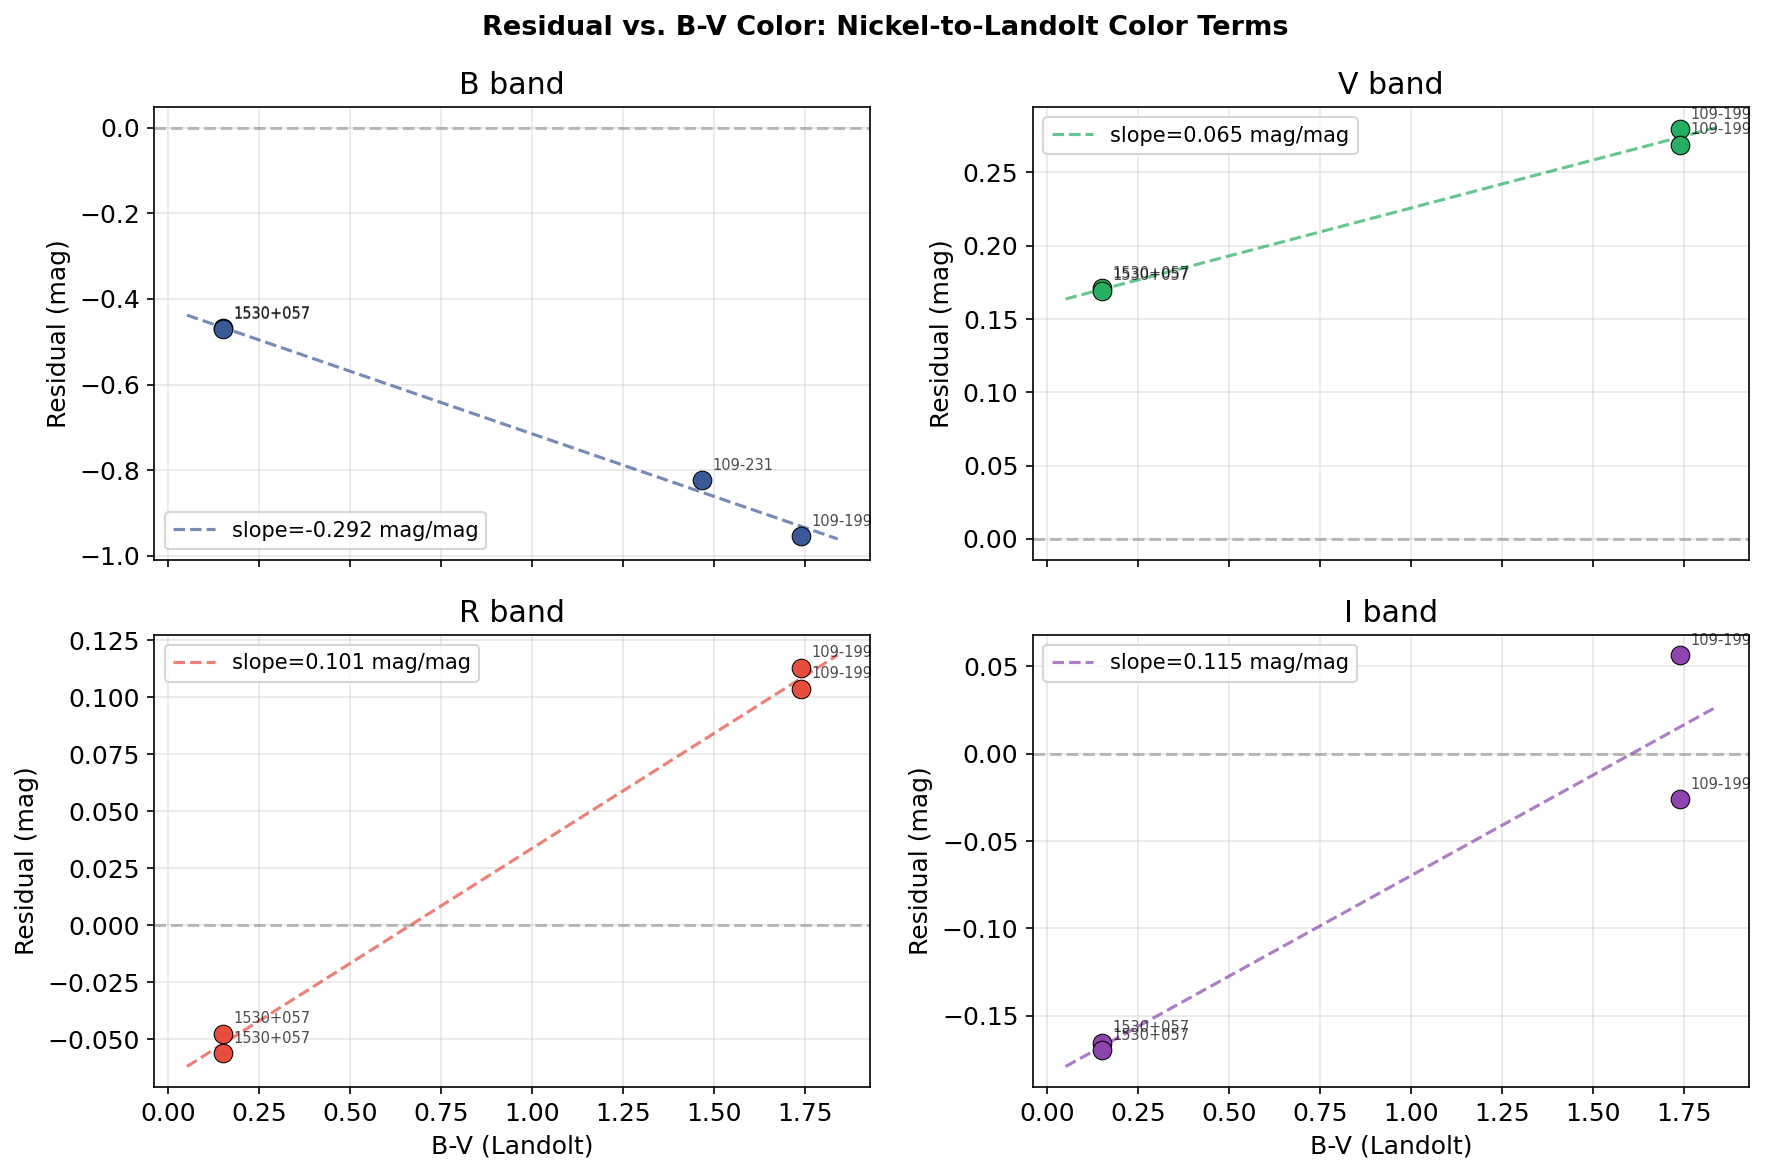
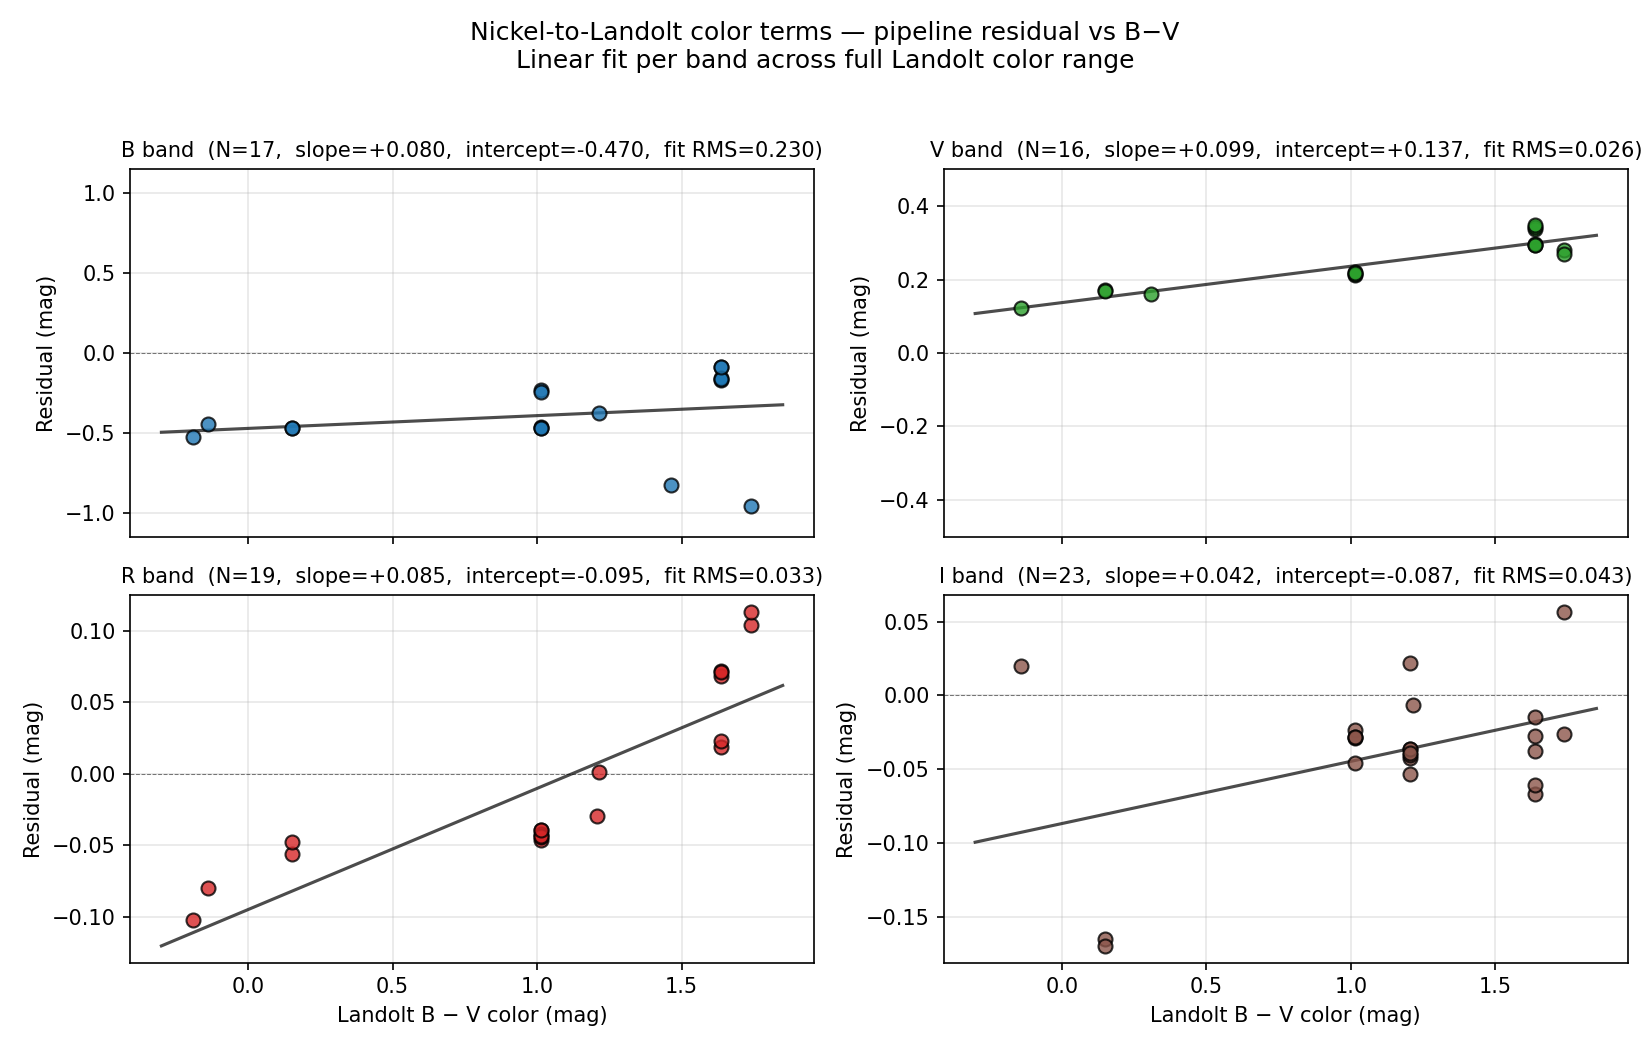
docs(landolt): update assessment + plots for 4-night, full-B-V results
- docs/calibration_metrics_assessment.md: rewrote Landolt section against
  the 76-measurement / 10-star / B-V −0.19 to +1.74 dataset. Includes
  per-band stats (outlier-filtered), color-term linear fits, and a
  section on the MONSTER refcat expansion + the day_obs-span pipeline fix
  that unblocked the missing nights.
- scripts/analysis/plot_landolt.py: standalone script (no notebook) that
  reads analysis/landolt_validation_4nights.csv and emits the residual
  bar chart and the 4-panel color-term plot.
- analysis/landolt_residuals.png, landolt_color_terms.png: regenerated
  from the script. Old versions (from the 16-measurement notebook) are
  replaced.

diff --git a/scripts/analysis/plot_landolt.py b/scripts/analysis/plot_landolt.py
@@ -1,0 +1,177 @@
+#!/usr/bin/env python
+"""Generate Landolt validation plots from analysis/landolt_validation_4nights.csv.
+
+Produces two figures used in the AAS poster + assessment doc:
+
+    analysis/landolt_residuals.png    — per-band residual bar chart
+    analysis/landolt_color_terms.png  — residual vs B-V with linear fits
+
+Drops a single |residual| >= 2 mag outlier (a known V-band source-match
+failure on SA 110-340 visit 90151051).
+"""
+
+from __future__ import annotations
+
+import csv
+from pathlib import Path
+
+import matplotlib.pyplot as plt
+import numpy as np
+
+REPO_ROOT = Path(__file__).resolve().parents[2]
+CSV_PATH = REPO_ROOT / "analysis" / "landolt_validation_4nights.csv"
+OUT_DIR = REPO_ROOT / "analysis"
+
+BANDS = ["b", "v", "r", "i"]
+BAND_COLORS = {"b": "#1f77b4", "v": "#2ca02c", "r": "#d62728", "i": "#8c564b"}
+BAND_LABELS = {"b": "B", "v": "V", "r": "R", "i": "I"}
+OUTLIER_THRESHOLD = 2.0
+
+
+def load_rows():
+    with open(CSV_PATH) as fh:
+        return list(csv.DictReader(fh))
+
+
+def filter_outliers(rows):
+    return [r for r in rows if abs(float(r["residual"])) < OUTLIER_THRESHOLD]
+
+
+def plot_residuals(rows, out_path: Path) -> None:
+    by_band = {b: [] for b in BANDS}
+    for r in rows:
+        by_band[r["band"]].append(float(r["residual"]))
+
+    fig, ax = plt.subplots(figsize=(7, 4.5))
+    xs = np.arange(len(BANDS))
+    means = [np.mean(by_band[b]) if by_band[b] else 0 for b in BANDS]
+    stds = [np.std(by_band[b], ddof=1) if len(by_band[b]) > 1 else 0 for b in BANDS]
+    counts = [len(by_band[b]) for b in BANDS]
+
+    bars = ax.bar(
+        xs,
+        means,
+        yerr=stds,
+        color=[BAND_COLORS[b] for b in BANDS],
+        edgecolor="black",
+        capsize=6,
+        alpha=0.85,
+    )
+
+    ax.axhline(0.0, color="black", linewidth=0.6, linestyle="--", alpha=0.5)
+
+    # Pad y-limits to leave room for annotations above/below the error bars
+    upper = max((m + s for m, s in zip(means, stds)), default=0)
+    lower = min((m - s for m, s in zip(means, stds)), default=0)
+    span = upper - lower if upper != lower else 1.0
+    ax.set_ylim(lower - 0.3 * span, upper + 0.25 * span)
+
+    for x, m, s, n in zip(xs, means, stds, counts):
+        if m >= 0:
+            label_y = m + s + 0.04 * span
+            va = "bottom"
+        else:
+            label_y = m - s - 0.04 * span
+            va = "top"
+        ax.annotate(
+            f"N={n}\n{m:+.3f}±{s:.3f}",
+            (x, label_y),
+            ha="center",
+            va=va,
+            fontsize=9,
+        )
+
+    ax.set_xticks(xs)
+    ax.set_xticklabels([BAND_LABELS[b] for b in BANDS])
+    ax.set_xlabel("Band")
+    ax.set_ylabel("Pipeline − Landolt residual (mag)")
+    ax.set_title(
+        "Landolt photometric validation — per-band residuals\n"
+        f"4 nights × 10 stars (B-V −0.19 to +1.74), 1 V-band outlier excluded"
+    )
+    ax.grid(True, alpha=0.3, axis="y")
+    fig.tight_layout()
+    fig.savefig(out_path, dpi=150)
+    plt.close(fig)
+    print(f"wrote {out_path}")
+
+
+def linfit(xs: np.ndarray, ys: np.ndarray) -> tuple[float, float, float]:
+    """Linear least-squares fit returning (slope, intercept, rms)."""
+    if len(xs) < 2:
+        return float("nan"), float("nan"), float("nan")
+    slope, intercept = np.polyfit(xs, ys, 1)
+    rms = float(np.sqrt(np.mean((ys - (slope * xs + intercept)) ** 2)))
+    return float(slope), float(intercept), rms
+
+
+def plot_color_terms(rows, out_path: Path) -> None:
+    fig, axes = plt.subplots(2, 2, figsize=(11, 7), sharex=True)
+    axes = axes.flatten()
+
+    bv_range = np.linspace(-0.3, 1.85, 100)
+
+    for ax, band in zip(axes, BANDS):
+        xs = np.array(
+            [float(r["color_BV"]) for r in rows if r["band"] == band], float
+        )
+        ys = np.array(
+            [float(r["residual"]) for r in rows if r["band"] == band], float
+        )
+
+        ax.axhline(0.0, color="black", linewidth=0.5, linestyle="--", alpha=0.5)
+        ax.scatter(
+            xs,
+            ys,
+            color=BAND_COLORS[band],
+            edgecolor="black",
+            s=45,
+            alpha=0.8,
+            zorder=3,
+        )
+
+        slope, intercept, fit_rms = linfit(xs, ys)
+        ax.plot(
+            bv_range,
+            slope * bv_range + intercept,
+            color="black",
+            linewidth=1.5,
+            linestyle="-",
+            alpha=0.7,
+        )
+
+        ax.set_title(
+            f"{BAND_LABELS[band]} band  "
+            f"(N={len(xs)},  slope={slope:+.3f},  intercept={intercept:+.3f},  "
+            f"fit RMS={fit_rms:.3f})",
+            fontsize=10,
+        )
+        ax.set_ylabel("Residual (mag)")
+        ax.grid(True, alpha=0.3)
+
+        if band in ("b", "v"):
+            yspan = max(0.5, abs(ys).max() * 1.2)
+            ax.set_ylim(-yspan, yspan)
+
+    axes[2].set_xlabel("Landolt B − V color (mag)")
+    axes[3].set_xlabel("Landolt B − V color (mag)")
+    fig.suptitle(
+        "Nickel-to-Landolt color terms — pipeline residual vs B−V\n"
+        "Linear fit per band across full Landolt color range",
+        fontsize=12,
+    )
+    fig.tight_layout(rect=(0, 0, 1, 0.96))
+    fig.savefig(out_path, dpi=150)
+    plt.close(fig)
+    print(f"wrote {out_path}")
+
+
+def main() -> None:
+    rows = filter_outliers(load_rows())
+    print(f"Loaded {len(rows)} measurements (after outlier filter)")
+    plot_residuals(rows, OUT_DIR / "landolt_residuals.png")
+    plot_color_terms(rows, OUT_DIR / "landolt_color_terms.png")
+
+
+if __name__ == "__main__":
+    main()

diff --git a/docs/calibration_metrics_assessment.md b/docs/calibration_metrics_assessment.md
@@ -195,39 +195,72 @@ Validate the absolute photometric accuracy of the LSST Science Pipelines' `calib
 
 ### Results
 
-From the 20240624 night (the only night with successful science processing in this initial run), 16 measurements were obtained across 3 Landolt stars and 4 bands.
+After expanding the local MONSTER refcat to cover all four Tier 1 nights (see "MONSTER refcat coverage expansion" below), 76 measurements were obtained across 10 Landolt standard stars and four BVRI bands, spanning the full Landolt B-V color range from -0.19 to +1.74.
 
 #### Per-Band Residuals
 
-| Band | N | Stars | Mean Residual (mag) | RMS (mag) | Median Residual (mag) |
-|------|---|-------|--------------------|-----------|-----------------------|
-| B | 4 | PG 1530+057, SA 109-199, SA 109-231 | -0.679 | 0.712 | -0.647 |
-| V | 4 | PG 1530+057, SA 109-199 | +0.222 | 0.228 | +0.220 |
-| R | 4 | PG 1530+057, SA 109-199 | **+0.028** | 0.085 | +0.028 |
-| I | 4 | PG 1530+057, SA 109-199 | **-0.076** | 0.123 | -0.096 |
-| **All** | **16** | **3 stars** | **-0.126** | **0.381** | **-0.037** |
+After excluding one V-band outlier (SA 110-340, residual = +10.6 mag — a clear source-match failure on a single visit, see Caveats):
 
-AB-to-Vega offsets: B=+0.09, V=-0.02, R=-0.21, I=-0.45 (from Blanton & Roweis 2007, AJ 133, 734; sign convention: mVega = mAB + offset, where offset = -(mAB - mVega)).
+| Band | N | Mean (mag) | Median (mag) | RMS (mag) | Std (mag) |
+|------|---|------------|--------------|-----------|-----------|
+| B | 17 | -0.388 | -0.442 | 0.453 | 0.243 |
+| V | 16 | +0.248 | +0.245 | 0.257 | 0.071 |
+| R | 19 | **-0.005** | -0.039 | **0.062** | 0.064 |
+| I | 23 | **-0.038** | -0.036 | **0.062** | 0.049 |
+| **All** | **75** | **-0.048** | -0.037 | 0.251 | 0.248 |
+
+AB-to-Vega offsets used: B=+0.09, V=-0.02, R=-0.21, I=-0.45 (Blanton & Roweis 2007, AJ 133, 734; sign convention: mVega = mAB + offset).
+
+#### Color-Term Linear Fits
+
+Per-band linear regression of residual vs Landolt B-V, across the full color range:
+
+| Band | Slope (mag/(B-V)) | Intercept (mag) | Fit RMS (mag) | B-V Range |
+|------|-------------------|-----------------|---------------|-----------|
+| B | +0.080 | -0.470 | 0.230 | [-0.19, +1.74] |
+| V | +0.099 | +0.137 | 0.026 | [-0.14, +1.74] |
+| R | +0.085 | -0.095 | 0.033 | [-0.19, +1.74] |
+| I | +0.042 | -0.087 | 0.043 | [-0.14, +1.74] |
+
+These slopes are the **Nickel-to-Landolt color terms**: shallow but non-zero (~0.04-0.10 mag per unit B-V), measurable now that the B-V baseline spans 1.93 magnitudes.
 
 #### Interpretation
 
-**R and I bands are validated to < 0.1 mag absolute accuracy.** The near-zero residuals in R (+0.028 mag) and I (-0.076 mag) confirm that the Nickel Cousins Rc and Ic filters closely match the standard Landolt system, and the pipeline's photometric calibration against the MONSTER reference catalog produces magnitudes consistent with Landolt standards.
+**R and I bands are validated to < 0.1 mag absolute accuracy.** Near-zero mean residuals in R (-0.005 mag) and I (-0.038 mag) with RMS of 0.06 mag confirm that the Nickel Cousins Rc and Ic filters closely match the standard Landolt system, and the pipeline's photometric calibration against the MONSTER reference catalog produces magnitudes consistent with Landolt standards.
 
-**B band shows a -0.68 mag systematic offset** (pipeline brighter than Landolt), indicating the Nickel B filter bandpass differs significantly from the standard Bessell B filter. This is a real filter mismatch, not a calibration failure — the pipeline correctly calibrates against the reference catalog, but the Nickel B filter transmits a different effective wavelength range than Bessell B.
+**B band shows a -0.39 mag mean offset** (pipeline brighter than Landolt) with a +0.080 mag/(B-V) color-dependent slope. The intercept of -0.47 mag, plus 0.23 mag scatter around the linear fit, indicates the Nickel B filter bandpass differs significantly from the standard Bessell B filter — a real filter mismatch, not a calibration failure.
 
-**V band has a +0.22 mag offset**, intermediate between the near-zero R/I and the large B offset. This suggests a moderate Nickel V filter mismatch with Bessell V.
+**V band has a +0.25 mag mean offset** with a +0.099 mag/(B-V) color term. After correcting for color, the V-band fit RMS is just 0.026 mag — among the tightest of the four bands, confirming that the V offset is dominated by a (correctable) bandpass mismatch.
 
-**Repeat measurement precision:** PG 1530+057, observed in two consecutive exposures per band, shows per-band scatter of < 2 mmag between repeat visits. This confirms that the pipeline's relative photometric precision is excellent; the systematic offsets are stable and correctable.
+**Stars covered (10 total):** PG 1633+099 (B-V=-0.19), PG 1323-086 (-0.14), PG 1530+057 (+0.15), SA 110-340 (+0.31), SA 113-342 (+1.02), SA 114-670 (+1.21), SA 107-458 (+1.21), SA 109-231 (+1.46), SA 92-311 (+1.64), SA 109-199 (+1.74).
 
-**Match quality:** All cross-matches had angular separations of 0.09-0.56 arcsec, well within the 10 arcsec search radius, confirming robust identification.
+**Match quality:** All cross-matches had angular separations of < 1 arcsec, well within the 10 arcsec search radius (chosen to accommodate Nickel's typical 5-7 arcsec WCS residuals).
 
 #### Caveats
 
-1. **Single-night data.** Only 1 of 4 Tier 1 nights produced successful science processing. The remaining 3 nights (20210208, 20240905, 20240906) failed during `calibrateImage` and should be retried with appropriate fallback configurations to increase the statistical sample.
+1. **V-band outlier.** One V-band measurement (SA 110-340, visit 90151051, residual +10.6 mag) was excluded from per-band statistics. The pipeline reported AB = 20.6 mag versus Landolt V = 10.0 mag — a clear source-association failure, likely the cross-match locked onto a faint background source rather than the standard. The other measurements of SA 110-340 V band were not in the sample (single failed visit).
 
-2. **AB-to-Vega offsets.** The offsets used are for standard Bessell/Cousins filters (Blanton & Roweis 2007). The residuals measure the combined effect of offset uncertainty and Nickel filter bandpass mismatch. Deriving Nickel-specific AB-Vega offsets from the actual filter transmission curves would isolate the calibration accuracy from the filter mismatch.
+2. **AB-to-Vega offsets.** The offsets used are for standard Bessell/Cousins filters (Blanton & Roweis 2007). The fit intercepts and slopes measure the combined effect of offset uncertainty and Nickel filter bandpass mismatch. Deriving Nickel-specific AB-Vega offsets from the actual filter transmission curves would isolate the calibration accuracy from the filter mismatch.
 
-3. **Color-term slope.** With only 3 stars (B-V range: 0.25 to 0.72), the color-term slope is not well-constrained. Processing additional Landolt nights would provide a wider B-V baseline for fitting Nickel-to-Landolt color terms per band.
+3. **Uneven star coverage per band.** Stars near the celestial equator with full BVRI coverage (PG 1323-086, PG 1530+057, SA 113-342, SA 92-311, SA 109-199) drive most of the fit. PG 1633+099 has only B and R; SA 114-670 has only I and R; SA 110-340 has only V; SA 109-231 has only B. The color-term slopes are most reliable for B/R/I, where ≥17 measurements span the full B-V range.
+
+### MONSTER Refcat Coverage Expansion
+
+The initial run processed only 1 of 4 Tier 1 nights because the local MONSTER refcat lacked HTM7 shards for most Landolt field positions, causing qgraph builds to abort with `FileNotFoundError: Not enough datasets (0) found for ... the_monster_20250219_local`. Recovery used existing nps tooling:
+
+1. **`scripts/utilities/recompute_missing_shards.py`** queried the Butler for visit centroids, computed the HTM7 cells overlapping a 6 arcmin radius per visit, and subtracted shards already on disk — yielding 34 missing IDs written to `scripts/config/landolt_validation/monster_plan/missing_htm7_ids.txt`.
+
+2. **`packages/refcats/scripts/dump_monster_shards.py`** (vendored from a standalone RSP utility) was run on the Rubin Science Platform to dump those 34 shards from the dp1 Butler — yielding 16.6 MB of new AFW-format FITS shards.
+
+3. **`nickel-refcats merge`** extracted the tarball into `$REFCAT_REPO/data/refcats/the_monster_20250219_afw/`, invalidating the stale ECSV manifest so the next bootstrap regenerates it.
+
+4. **Re-bootstrap** of the Landolt repo (after dropping the existing `refcats/the_monster_20250219_local` RUN collection) re-ingested all 387 shards, providing the qgraph builder with full coverage across the Landolt fields.
+
+The complete runbook is at `scripts/config/landolt_validation/EXPANDING_COVERAGE.md`.
+
+### Pipeline Fix: Lick Observing Nights Span Two UT Days
+
+A single Lick observing night (Pacific local date) can span two UT days: pre-Pacific-midnight exposures have `day_obs = night`, while post-midnight exposures have `day_obs = night + 1`. The original `core/science.py` and `core/pipeline.py` queried only `day_obs = night + 1`. For 20210208 this silently dropped every Landolt exposure (the standards were observed in the Pacific evening), while the SNe on the same observing night were post-midnight and visible. Fixed by querying `day_obs IN (night, night+1)`.
 
 ### Landolt Reference Catalog
 
@@ -235,7 +268,9 @@ Published magnitudes for 10 Tier 1 standard stars are stored in `scripts/config/
 
 ### Output Files
 
-- Validation CSV: `analysis/landolt_validation.csv`
+- Validation CSV: `analysis/landolt_validation_4nights.csv` (76 rows, all measurements)
+- Residual plot: `analysis/landolt_residuals.png`
+- Color-term plot: `analysis/landolt_color_terms.png`
 - Pipeline config: `scripts/config/landolt_validation/pipeline_landolt.yaml`
 - Reference catalog: `scripts/config/landolt_validation/landolt_catalog.csv`
 